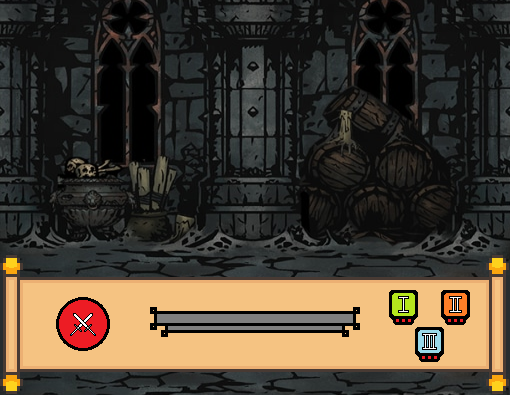
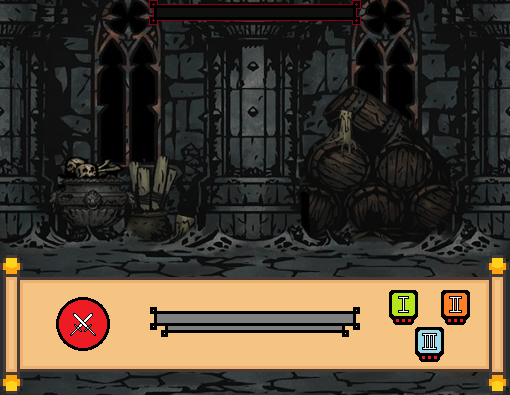
Textos na tela + barra de vida do inimigo

Changed region(s): [[0.2941, 0.0, 0.7059, 0.0608]]

diff --git a/src/entities/rpg.cc b/src/entities/rpg.cc
@@ -78,6 +78,10 @@ Rpg::Rpg(Player jogador){
   player_status_[1].setOutlineThickness(0);
   player_status_[1].setSize(Vector2f(409, 9.4));
   player_status_[1].setPosition(Vector2f(395, 766));
+
+  enemy_status_.setSize(Vector2f(461,21));
+  enemy_status_.setFillColor(Color::Red);
+  enemy_status_.setPosition(Vector2f(369, 18));
 }
 
 void Rpg::Game(){
@@ -128,6 +132,11 @@ int Rpg::Events() {
         if(enemys_.front().Def(player_.Atk())){
           cout << "O jogador acertou o ataque."<< endl;
           cout << "Inimigo esta com " << enemys_.front().stats_.hp << " de vida restante." << endl;
+
+          float tam_x = 461*enemys_.front().stats_.hp/enemys_.front().stats_.hp_max;
+          enemy_status_.setSize(Vector2f(tam_x,21));
+          enemy_status_.setFillColor(Color::Red);
+          enemy_status_.setPosition(Vector2f(369, 18));
         }else{
           cout << "O jogador errou o ataque." <<endl;
         }
@@ -146,7 +155,7 @@ void Rpg::DrawTexts(){
   player_name_.setCharacterSize(25);
   player_name_.setFont(font);
   player_name_.setFillColor(Color::White);
-  player_name_.setOutlineThickness(1);
+  player_name_.setOutlineThickness(3);
 
   if(player_.classe_ == 0){
     player_name_.setOutlineColor(Color::Blue);
@@ -159,26 +168,54 @@ void Rpg::DrawTexts(){
   FloatRect name_rect = player_name_.getLocalBounds();
   player_name_.setPosition(Vector2f((window_->getSize().x - name_rect.width) / 2, 680));
 
-  // for(int i = 0;i < 3; i++){
-  //   texts_[i].setCharacterSize(18);
-  //   texts_[i].setFont(font);
-  //   texts_[i].setFillColor(Color::White);
-  //   texts_[i].setOutlineThickness(1);
-  //   texts_[i].setOutlineColor(Color::Black);
-  // }
+  texts_.resize(4);
 
-  // stringstream aux;
-  // string x;
+  for(int i = 0;i < 3; i++){
+    texts_[i].setCharacterSize(15);
+    texts_[i].setFont(font);
+    texts_[i].setFillColor(Color::White);
+    texts_[i].setOutlineThickness(3);
+    texts_[i].setOutlineColor(Color::Black);
+  }
 
-  // aux << player_.stats_.atk;
-  // aux >> x;
+  stringstream aux1, aux2, aux3;
+  string x;
 
-  // texts_[0].setString("Atk: " + x);
+  aux1 << player_.stats_.atk;
+  aux1 >> x;
+
+  texts_[0].setString("Atk: " + x);
+  name_rect = texts_[0].getLocalBounds();
+  texts_[0].setPosition(Vector2f(((window_->getSize().x - name_rect.width) / 2) - 150, 800));
+
+  aux2 << player_.stats_.def;
+  aux2 >> x;
+
+  texts_[1].setString("Def: " + x);
+  name_rect = texts_[1].getLocalBounds();
+  texts_[1].setPosition(Vector2f((window_->getSize().x - name_rect.width) / 2, 800));
+
+  aux3 << player_.stats_.xp;
+  aux3 >> x;
+
+  texts_[2].setString("Xp: " + x);
+  name_rect = texts_[2].getLocalBounds();
+  texts_[2].setPosition(Vector2f(((window_->getSize().x - name_rect.width) / 2) + 150, 800));
+
+  texts_[3].setCharacterSize(18);
+  texts_[3].setFont(font);
+  texts_[3].setFillColor(Color::Black);
+  texts_[3].setOutlineThickness(3);
+  texts_[3].setOutlineColor(Color::Red);
+  texts_[3].setString(enemys_.front().name_);
+
+  name_rect = texts_[3].getLocalBounds();
+  texts_[3].setPosition(Vector2f(((window_->getSize().x - name_rect.width) / 2), 60));
 
   window_->draw(player_name_);
-  // for(auto t : texts_){
-  //   window_->draw(t); 
-  // }
+  for(auto t : texts_){
+    window_->draw(t);
+  }
 }
 
 void Rpg::Draw() {  
@@ -195,6 +232,7 @@ void Rpg::Draw() {
   for(size_t i{}; i < player_status_.size(); i++){
     window_->draw(player_status_[i]);
   }
+  window_->draw(enemy_status_);
   DrawTexts();
   window_->draw(enemys_.front().img_enemy_);
   window_->draw(player_.img_player_);
@@ -222,6 +260,7 @@ void Rpg::Run() {
           Enemy inimigo_novo;
           enemys_.pop_back();
           enemys_.push_back(inimigo_novo);
+          player_.Upar(20);
           cout << "Você derrotou o inimigo!" << endl;
           cout << "O novo inimigo gerado aleatoriamente é um " << inimigo_novo.name_ << "." << endl;
         }else if(player_.Def(enemys_.front().Atk())){

diff --git a/include/rpg.h b/include/rpg.h
@@ -30,6 +30,7 @@ public:
   Texture bg; /**< Textura para importar para o backgroud da tela. */
   shared_ptr<Sprite> background; /**< Background da tela. */
     
+  RectangleShape enemy_status_; /**< Barra de vida do inimigo. */  
   vector<RectangleShape> buttons_; /**< Vetor para os botões clicáveis. */
   vector<RectangleShape> player_status_; /**< Barras de mana e vida do Player. */
   vector<vector<RectangleShape>> cd_skills_; /**< Mostradores para o cooldown das skills do player. */

diff --git a/src/entities/player.cc b/src/entities/player.cc
@@ -73,8 +73,11 @@ void Player::Upar(int xp){
     stats_.def += 5;
     stats_.agi += 5;
     stats_.mp += 15; 
+    stats_.xp = 0;
+
+    cout << "Você subiu de nível!" << endl;
   }
-    
+
   return;
 }
 
